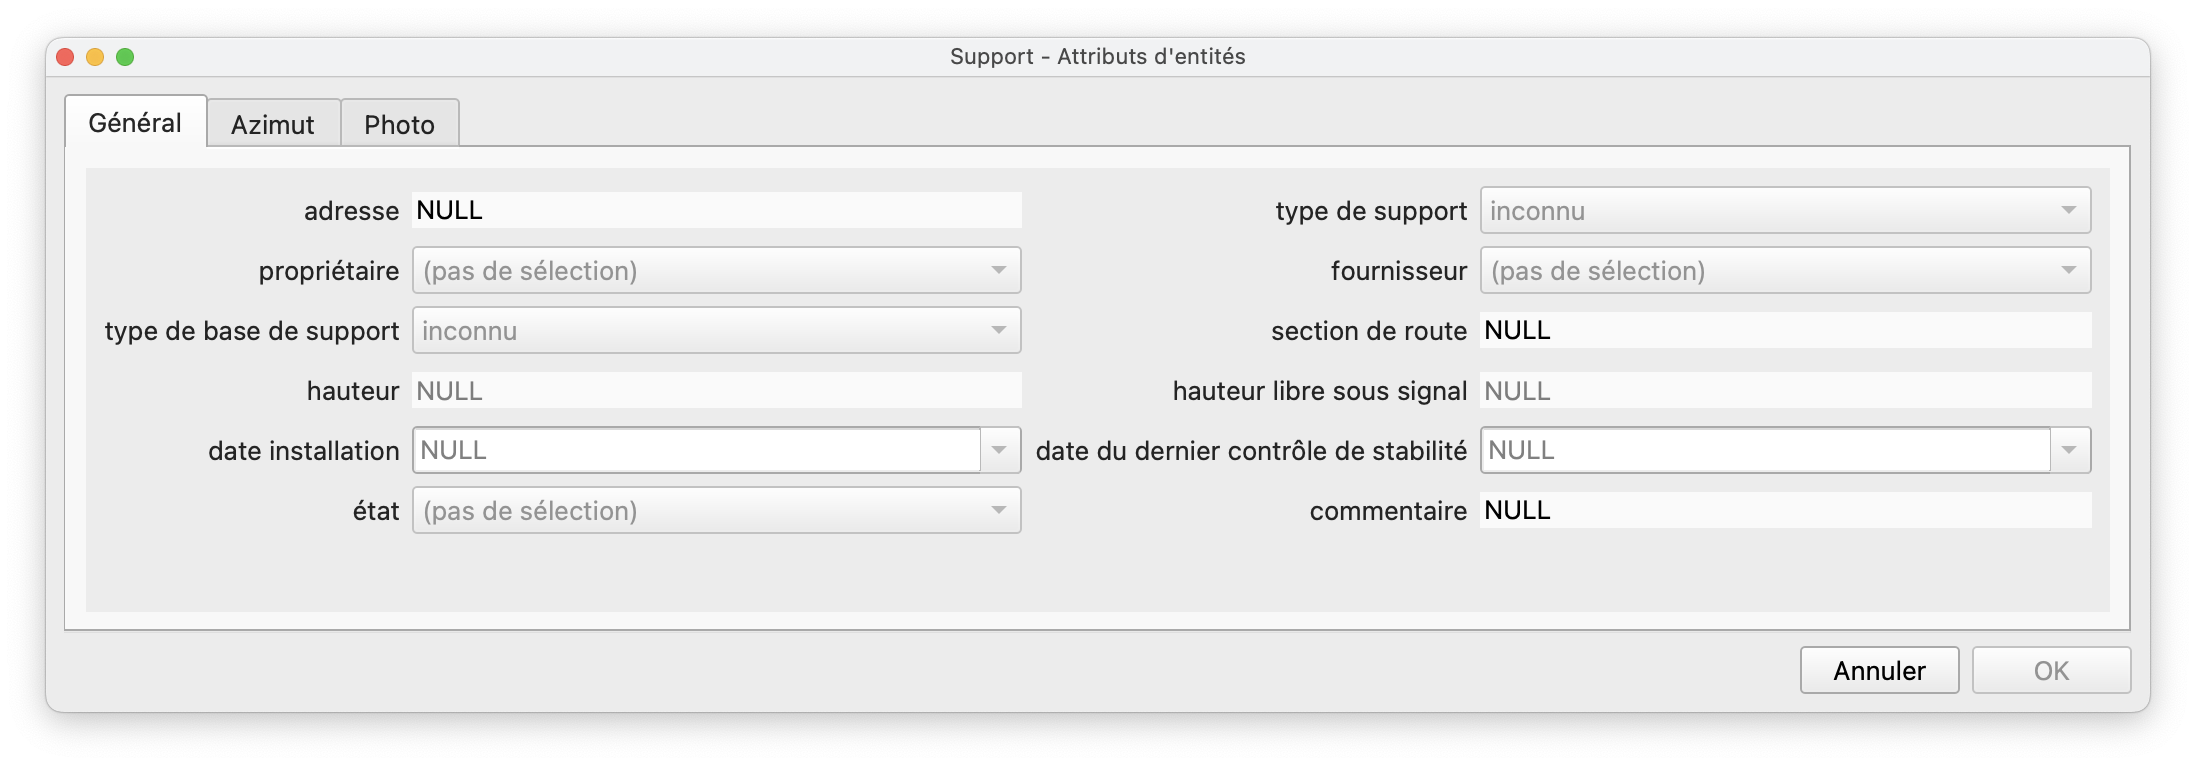
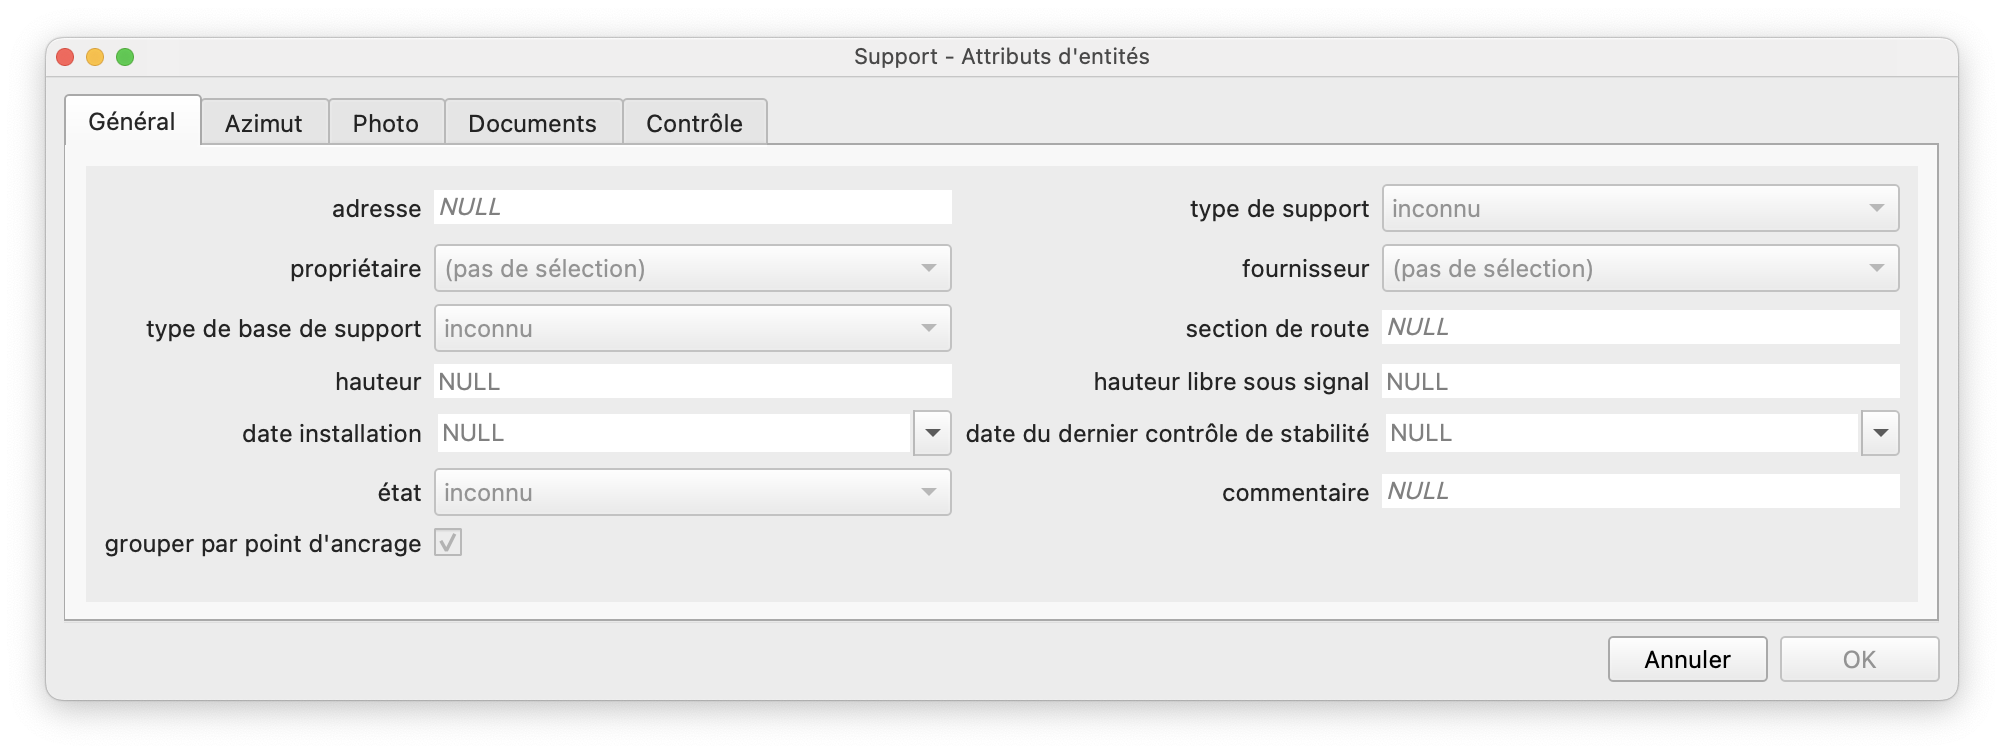
include tab control in docs

diff --git a/website/documentation/user-guide/adddata.fr.md b/website/documentation/user-guide/adddata.fr.md
@@ -7,7 +7,7 @@ tx_slug: documentation_user-guide_adddata
 
 * Mettre la couche "Support" en édition et digitaliser un point pour ouvrir le formulaire.
 
-!!! info "Le formulaire est composé de quatre onglets:"
+!!! info "Le formulaire est composé de cinq onglets:"
 
     === "Général"
         ![Onglet général](../assets/images/printscreen/support-form-general.png){loading=lazy}
@@ -16,10 +16,13 @@ tx_slug: documentation_user-guide_adddata
         ![Onglet azimut](../assets/images/printscreen/support-form-azimut.png){loading=lazy}
 
     === "Photo"
-        ![Onglet azimut](../assets/images/printscreen/support-form-photo.png){loading=lazy}
+        ![Onglet photo](../assets/images/printscreen/support-form-photo.png){loading=lazy}
 
     === "Documents"
-        ![Onglet azimut](../assets/images/printscreen/support-form-documents.png){loading=lazy}
+        ![Onglet documents](../assets/images/printscreen/support-form-documents.png){loading=lazy}
+
+    === "Contrôle"
+        ![Onglet contrôle](../assets/images/printscreen/support-form-control.png){loading=lazy}
 
 ## Onglet Azimut
 Dans l’onglet “Azimut”, les cadres et signaux peuvent y être saisis. L'attribut *Azimut* peut être rempli de manière graphique, grâce à la vue `vw_azimut_edit` (couche Outil Azimut) du schéma `signalo_app`.
@@ -32,3 +35,6 @@ Dans l’onglet “Azimut”, les cadres et signaux peuvent y être saisis. L'at
 
 ## Onglet Documents
 Dans l'onglet “Documents“, des fichiers de tout format peuvent être liés à un support à travers leur chemin de stockage. L'extension [Document Management System](https://plugins.qgis.org/plugins/document_management_system/) fournit une interface pour gérer les relations du système de gestion des documents des deux côtés (côté document et côté support). Elle prend en charge les relations 1-N et N-M. Les chemins vers les documents sont stockés dans la base de données dans la table `signalo_db.dms_document`.
+
+## Onglet Contrôle
+L'onglet "Contrôle" comporte des métadonnées sur les dernières modifications et si le support nécessite une validation des données modifiées. Voir aussi le chapitre [Validation des changements](https://signalo.ch/user-guide/validation/) pour les instructions détaillées. 
